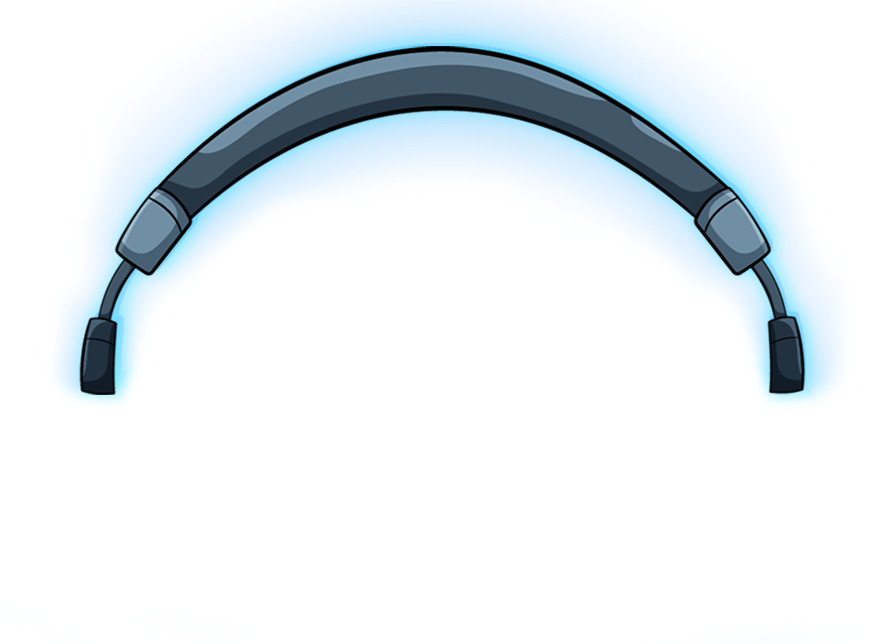
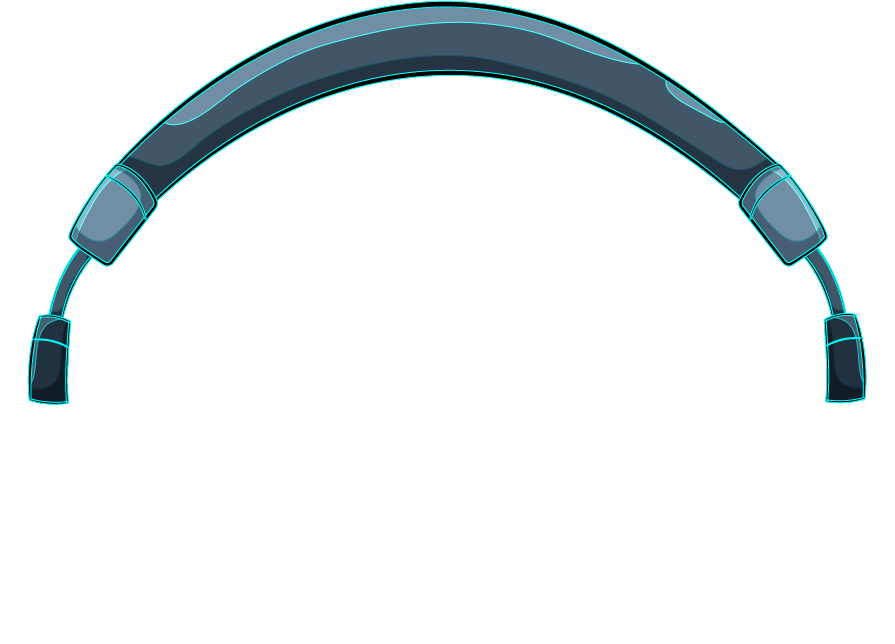
Adjustments to album cover display

Changed region(s): [[0.0302, 0.0, 0.9955, 0.6522]]

diff --git a/lib/components/view_data.dart b/lib/components/view_data.dart
@@ -56,16 +56,16 @@ class ViewData extends StatelessWidget {
                         alignment: Alignment.topCenter,
                         children: <Widget>[
                           Positioned(
-                            top: constraints.maxHeight * -.005,
+                            top: constraints.maxHeight * .015,
                             child: Image.asset(
                               kAstePhonesImg,
-                              height: constraints.maxHeight * .355,
+                              height: constraints.maxHeight * .3,
                               width: 400,
                               fit: BoxFit.fitHeight,
                             ),
                           ),
                           Positioned(
-                            top: constraints.maxHeight * -.005,
+                            top: constraints.maxHeight * .015,
                             child: AnimatedScalePulse(
                               playing: radioService.player.playing,
                               duration: Duration(milliseconds: 100),
@@ -73,7 +73,7 @@ class ViewData extends StatelessWidget {
                               minScale: 0.98,
                               child: Image.asset(
                                 kPhonesImg,
-                                height: constraints.maxHeight * .35,
+                                height: constraints.maxHeight * .3,
                                 width: 400,
                                 fit: BoxFit.fitHeight,
                               ),
@@ -103,7 +103,7 @@ class ViewData extends StatelessWidget {
                               ),
                             ),
                             child: Positioned(
-                              top: constraints.maxHeight * .09,
+                              top: constraints.maxHeight * .08,
                               child: Cover(coverUrl: _coverUrl),
                               // child: AnimatedCover(coverUrl: _coverUrl),
                             ),

diff --git a/lib/components/button_play_stop.dart b/lib/components/button_play_stop.dart
@@ -27,20 +27,20 @@ class PlayPauseButton extends StatelessWidget {
         final playing = snapshot.data ?? false;
         return ConstrainedBox(
           constraints: BoxConstraints(
-            maxHeight: 40,
+            maxHeight: 50,
             maxWidth: 50,
-            minHeight: 30,
+            minHeight: 40,
             minWidth: 40,
           ),
           child: FloatingActionButton(
             onPressed: onPressed,
             backgroundColor: backgroundColor,
             shape: RoundedRectangleBorder(
-              borderRadius: BorderRadius.circular(10),
-              side: BorderSide(color: borderColor, width: 2),
+              borderRadius: BorderRadius.circular(100),
+              side: BorderSide(color: borderColor, width: 3),
             ),
             child: Icon(
-              playing ? Icons.stop : Icons.play_arrow,
+              playing ? Icons.pause : Icons.play_arrow,
               size: 30,
               color: iconColor,
             ),

diff --git a/lib/components/cover_image.dart b/lib/components/cover_image.dart
@@ -11,8 +11,8 @@ class Cover extends StatelessWidget {
   Widget build(BuildContext context) {
     var size = MediaQuery.of(context).size;
     return Container(
-      height: size.width * 0.48,
-      width: size.width * 0.48,
+      height: size.width * 0.5,
+      width: size.width * 0.5,
       decoration: BoxDecoration(
         border: Border.all(
           color: kColor4.withValues(alpha: 0.5), // cor da borda
